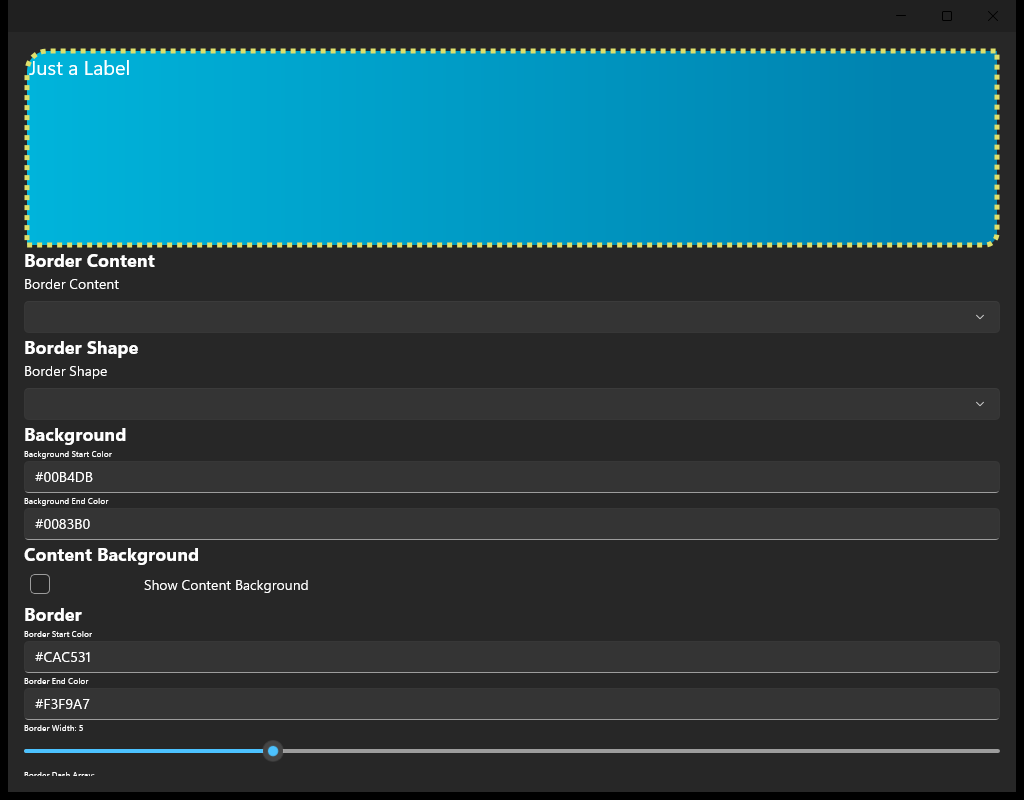
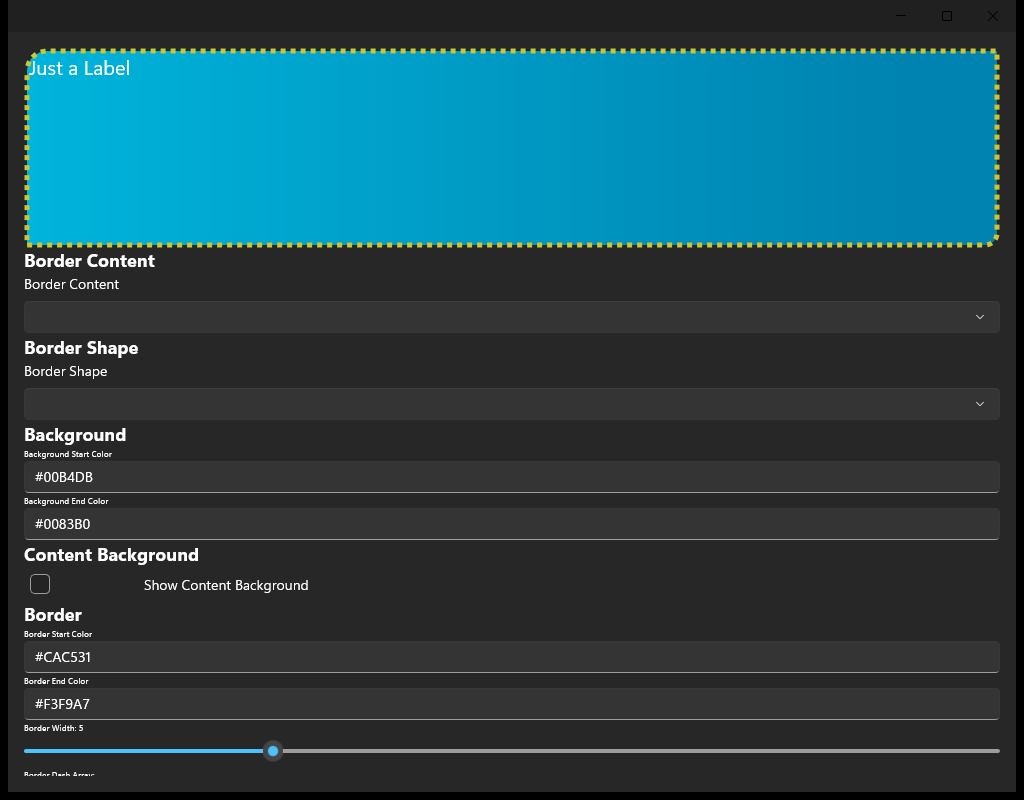
fix(gallery): border_playground resting stroke is SOLID, not a gradient
border_playground  light 1.11% -> 0.55%   dark 1.26% -> 0.64%  (8320 cpp px)
  cpp_light  BOTH 165 -> 166      cpp_dark  BOTH 162 -> 163
  xaml_light BOTH 166             xaml_dark BOTH 163

CAUSE: the page always called update_border(), which builds a start->end
LinearGradientBrush for the Border's Stroke (mirroring the C# ctor's fully
INTERACTIVE UpdateBorder body). But the shared twin authors Stroke="#CAC531" as a
plain solid-colour string -- unlike its <Border.Background>, which genuinely IS a
<LinearGradientBrush> element. border_stroke_spec has no multi-stop gradient
STROKE representation, so it collapsed to the BlendStartAndEndColors midpoint.

The arithmetic closes exactly:
  MAUI  (202,197,49) = #CAC531 at EVERY sampled x from col 52 to col 954, zero
        drift -- which is itself the proof it is solid, not a gradient.
  port  (222,223,108) = precisely the #CAC531 <-> #F3F9A7 midpoint.
Those are the same two dominants measured on the page before the mechanism was
understood.

paint_border_only() now overrides the resting stroke to a solid paint of the
start colour after update_border(false); interactive edits still build the full
gradient, preserving the C# intent.

PREDICTION HELD, TO TWO DECIMALS. Before capture the fix predicted light ~0.55%
and dark ~0.64% -- NOT zero -- because a separate residual survives: row 48, the
stroke's OUTER edge, lands fractionally covered in the port where MAUI lands it
[…]

diff --git a/port/cpp/docs/comparison/README.md b/port/cpp/docs/comparison/README.md
@@ -7802,8 +7802,8 @@ Real .NET MAUI as **WinUI 3** (`Microsoft.UI.Xaml`) — MAUI's actual Windows ba
 
 | Classification | Pixel-Perfect Score — C++ (C1/C3) | Pixel-Perfect Score — C++ &amp; XAML (C2/C4) |
 | --- | --- | --- |
-| 🟢 Match | 162 | 163 |
-| 🟡 Minor | 7 | 6 |
+| 🟢 Match | 163 | 163 |
+| 🟡 Minor | 6 | 6 |
 | 🔴 Major | 3 | 3 |
 | ⬛ Blank | 0 | 0 |
 | ⏳ Unreviewed | 0 | 0 |
@@ -8033,16 +8033,16 @@ Light: SSIM 0.9945, 0.27% pixels differ · Dark: SSIM 0.9935, 0.29% pixels diffe
 
 Light: SSIM 0.9945, 0.27% pixels differ · Dark: SSIM 0.9935, 0.29% pixels differ
 
-### 16. Border Playground — 🟡/🟢
+### 16. Border Playground — 🟢/🟢
 <sub>border_playground</sub>
 
 <table><tr><th></th><th>MAUI</th><th>C++</th><th>C++ &amp; XAML</th></tr><tr><th>Light</th><td><img width="300px" src="captures/windows/maui/border_playground_light.png" /></td><td><img width="300px" src="captures/windows/cpp/border_playground_light.png" /></td><td><img width="300px" src="captures/windows/xaml/border_playground_light.png" /></td></tr><tr><th>Dark</th><td><img width="300px" src="captures/windows/maui/border_playground_dark.png" /></td><td><img width="300px" src="captures/windows/cpp/border_playground_dark.png" /></td><td><img width="300px" src="captures/windows/xaml/border_playground_dark.png" /></td></tr></table>
 
 ports BorderPlayground.xaml (+ BorderPlayground.xaml.cs) A self-contained, code-first interactive Border playground
 
-#### 🟡 Pixel-Perfect Score — C++ (C1/C3)
+#### 🟢 Pixel-Perfect Score — C++ (C1/C3)
 
-Light: SSIM 0.9954, 1.11% pixels differ · Dark: SSIM 0.9899, 1.26% pixels differ
+Light: SSIM 0.9979, 0.55% pixels differ · Dark: SSIM 0.9911, 0.64% pixels differ
 
 #### 🟢 Pixel-Perfect Score — C++ &amp; XAML (C2/C4)
 
